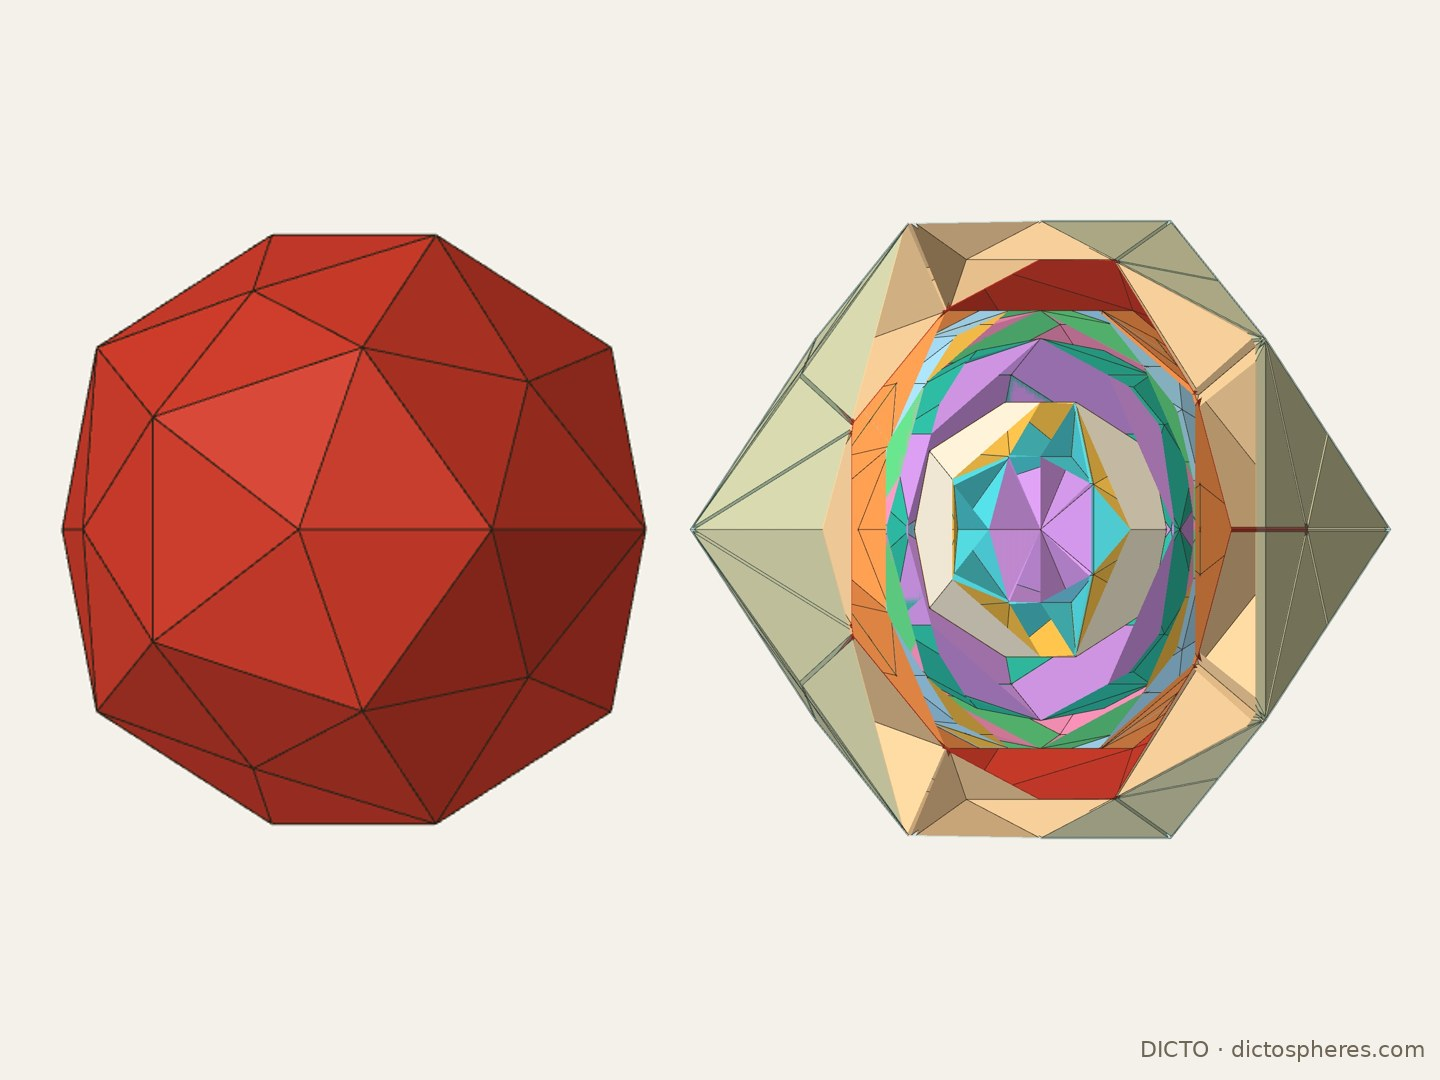
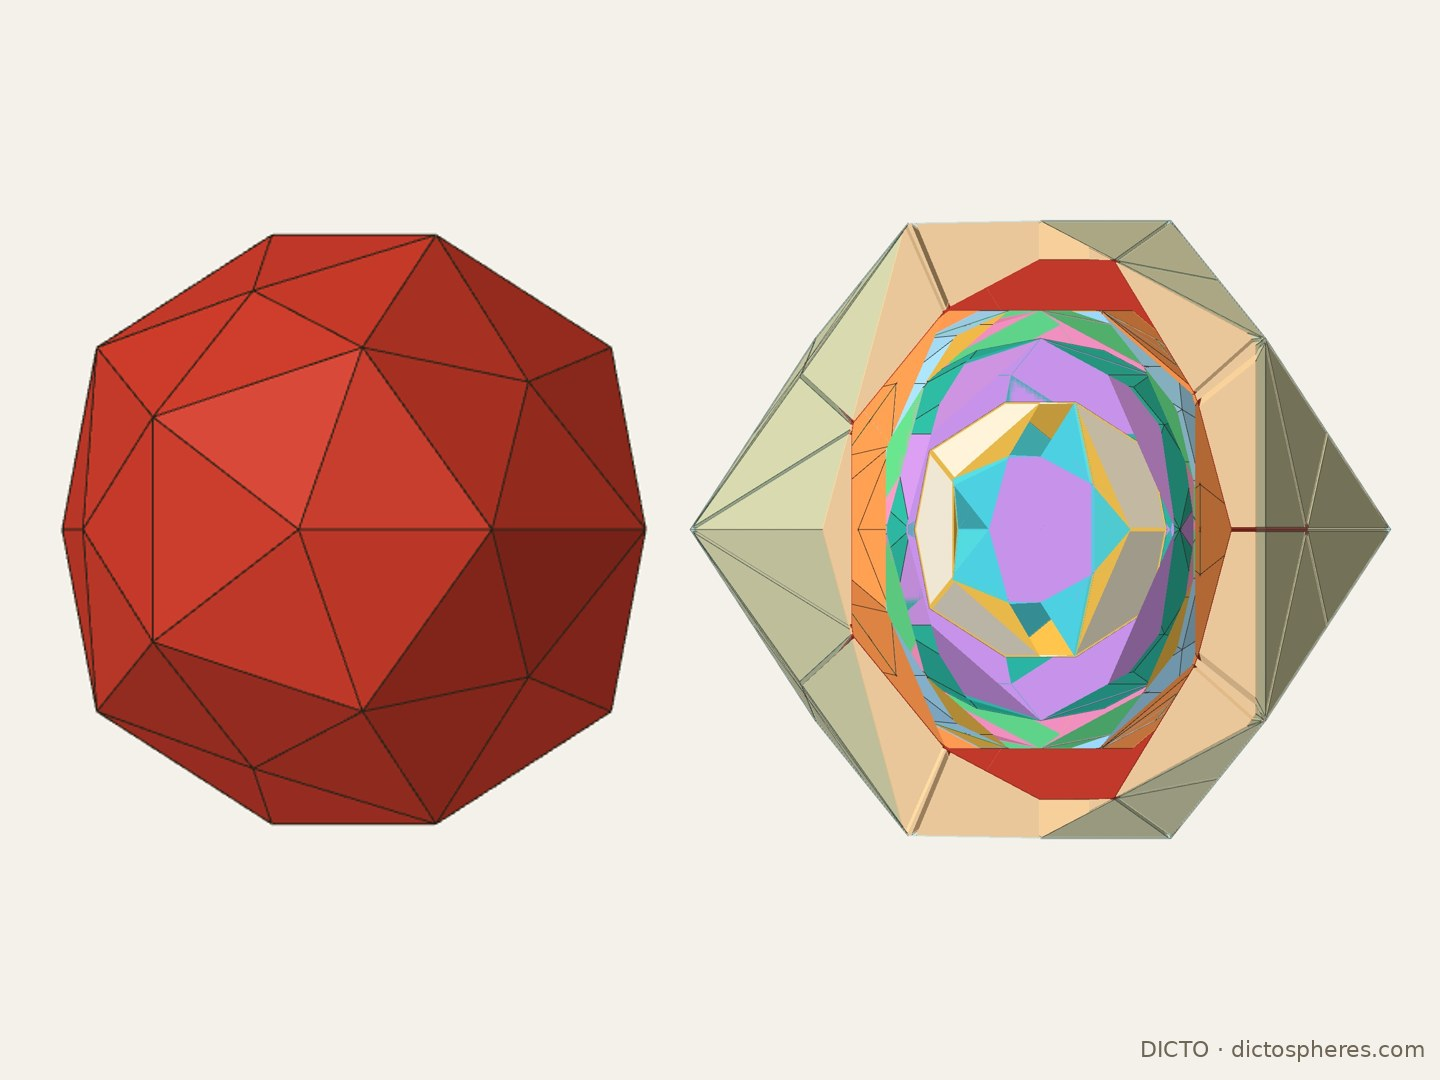
#35 and #35a cards: the Version 2 figures (solid cut faces); news line

Changed region(s): [[0.5938, 0.1833, 0.8125, 0.7944], [0.8125, 0.3056, 0.875, 0.6722]]

diff --git a/index.html b/index.html
@@ -145,8 +145,8 @@
     <h2>Papers</h2>
     <p class="disc-note">Short papers by DICTO, with the checks behind every claim.</p>
     <div class="papers">
-      <div class="paper feature"><img src="papers/vajrayana.jpg?v=2" alt="Vajrayana: the Cleo star build pulled apart, assembled inside the dodecahedron D′, and in the cycle; below, the twelve stations of the golden cycle at true scale" loading="eager" width="1776" height="999"><span class="t"><span class="num">#35</span> Vajrayana</span><span class="s">A companion to Progenitors. The dodecahedron returns inside the golden cycle as the hull of DICTO's Cleo star, filled exactly by 82 pieces of four kinds. The last loose step, from the rhombic triacontahedron to the next icosahedron, is closed by a new solid that touches both, the DICTO Metaxyhexecontahedron, each of its two layers one kind of piece. The cycle grows to twelve stations. Exact in every step.</span><span class="pdoi"><a class="doi-badge" href="https://doi.org/10.5281/zenodo.23429911" title="DICTO DOI, always the newest version"><span>DICTO DOI</span><span>10.5281/zenodo.23429911</span></a></span><span class="btns"><a class="btn" href="https://doi.org/10.5281/zenodo.23429911">Read paper</a><a class="btn" href="https://kaleidohedra.dictospheres.com/?open=vajrayana">View in app</a></span></div>
-      <div class="paper"><img src="papers/metaxyhexecontahedron.jpg?v=3" alt="The DICTO Metaxyhexecontahedron alone, and in the twelve-station golden cycle between the rhombic triacontahedron and the next icosahedron" loading="lazy" width="1440" height="1080"><span class="t"><span class="num">#35a</span> The DICTO Metaxyhexecontahedron</span><span class="s">The solid in the last gap of the golden cycle: the hull of an icosahedron and a dodecahedron whose edges stand exactly at 9/φ⁴. 60 triangles, an insphere, no midsphere; it touches the rhombic triacontahedron and the next icosahedron, each of its two layers one kind of piece. A short introduction, exact in every number.</span><span class="pdoi"><a class="doi-badge" href="https://doi.org/10.5281/zenodo.23430864" title="DICTO DOI, always the newest version"><span>DICTO DOI</span><span>10.5281/zenodo.23430864</span></a></span><span class="btns"><a class="btn" href="https://doi.org/10.5281/zenodo.23430864">Read paper</a><a class="btn" href="https://kaleidohedra.dictospheres.com/?open=vajrayana">View in app</a></span></div>
+      <div class="paper feature"><img src="papers/vajrayana.jpg?v=3" alt="Vajrayana: the Cleo star build pulled apart, assembled inside the dodecahedron D′, and in the cycle; below, the twelve stations of the golden cycle at true scale" loading="eager" width="1776" height="999"><span class="t"><span class="num">#35</span> Vajrayana</span><span class="s">A companion to Progenitors. The dodecahedron returns inside the golden cycle as the hull of DICTO's Cleo star, filled exactly by 82 pieces of four kinds. The last loose step, from the rhombic triacontahedron to the next icosahedron, is closed by a new solid that touches both, the DICTO Metaxyhexecontahedron, each of its two layers one kind of piece. The cycle grows to twelve stations. Exact in every step.</span><span class="pdoi"><a class="doi-badge" href="https://doi.org/10.5281/zenodo.23429911" title="DICTO DOI, always the newest version"><span>DICTO DOI</span><span>10.5281/zenodo.23429911</span></a></span><span class="btns"><a class="btn" href="https://doi.org/10.5281/zenodo.23429911">Read paper</a><a class="btn" href="https://kaleidohedra.dictospheres.com/?open=vajrayana">View in app</a></span></div>
+      <div class="paper"><img src="papers/metaxyhexecontahedron.jpg?v=4" alt="The DICTO Metaxyhexecontahedron alone, and in the twelve-station golden cycle between the rhombic triacontahedron and the next icosahedron" loading="lazy" width="1440" height="1080"><span class="t"><span class="num">#35a</span> The DICTO Metaxyhexecontahedron</span><span class="s">The solid in the last gap of the golden cycle: the hull of an icosahedron and a dodecahedron whose edges stand exactly at 9/φ⁴. 60 triangles, an insphere, no midsphere; it touches the rhombic triacontahedron and the next icosahedron, each of its two layers one kind of piece. A short introduction, exact in every number.</span><span class="pdoi"><a class="doi-badge" href="https://doi.org/10.5281/zenodo.23430864" title="DICTO DOI, always the newest version"><span>DICTO DOI</span><span>10.5281/zenodo.23430864</span></a></span><span class="btns"><a class="btn" href="https://doi.org/10.5281/zenodo.23430864">Read paper</a><a class="btn" href="https://kaleidohedra.dictospheres.com/?open=vajrayana">View in app</a></span></div>
       <div class="paper feature"><img src="papers/progenitors.jpg" alt="Progenitors: the golden nine-station cycle with the Ogdoecontahedron in the dodecahedron's place, cut away and sliced through the centre" loading="eager" width="1776" height="999"><span class="t"><span class="num">#34</span> Progenitors</span><span class="s">The DICTO Hecatodihedron and Ogdoecontahedron as a twin pair. On their own they never close golden: tight nestings with their classical relatives are governed by 3. Set into the Spheres of Dharma in the dodecahedron's place, they close it again on φ⁹, and the cycle holds the core and hull of two dual compounds. Exact in every step.</span><span class="pdoi"><a class="doi-badge" href="https://doi.org/10.5281/zenodo.23413184" title="DICTO DOI, always the newest version"><span>DICTO DOI</span><span>10.5281/zenodo.23413184</span></a></span><span class="btns"><a class="btn" href="https://doi.org/10.5281/zenodo.23413184">Read paper</a></span></div>
       <div class="paper feature"><img src="papers/double-vision.jpg" alt="Double Vision: the interlock of both cycles in its two settings, a slice removed to show the layers and the next turn inside" loading="eager" width="1920" height="1080"><span class="t"><span class="num">#33</span> Double Vision – Both Cycles in One Space</span><span class="s">The Spheres of Dharma and their inside-out reversal placed in one space. One sphere of reciprocation toggles which shells the two cycles share, and no sphere gives both settings. Cut against each other, the two cycles make one solid of convex pieces, exact in every piece: 536 pieces of 12 kinds per turn in one setting, 502 of 11 in the other.</span><span class="pdoi"><a class="doi-badge" href="https://doi.org/10.5281/zenodo.23407106" title="DICTO DOI, always the newest version"><span>DICTO DOI</span><span>10.5281/zenodo.23407106</span></a></span><span class="btns"><a class="btn" href="https://doi.org/10.5281/zenodo.23407106">Read paper</a><a class="btn" href="https://kaleidohedra.dictospheres.com/?open=doubleVision">View in app</a></span></div>
       <div class="paper feature"><img src="papers/inverted-shells.jpg" alt="Inverted Shells: the great stellated dodecahedron, the reversed Spheres of Dharma cut in half, and its endless core" loading="eager" width="1920" height="1080"><span class="t"><span class="num">#32</span> Inverted Shells: The Spheres of Dharma Turned Inside Out</span><span class="s">Polar reciprocation turns the Spheres of Dharma inside out into a new exact golden cycle, every layer filled by one kind of piece. The great stellated dodecahedron locks into its outer gap at exactly one size, a dual pair fits its inner gap in reverse order, and the cycle repeats inward without end.</span><span class="pdoi"><a class="doi-badge" href="https://doi.org/10.5281/zenodo.23405029" title="DICTO DOI, always the newest version"><span>DICTO DOI</span><span>10.5281/zenodo.23405029</span></a></span><span class="btns"><a class="btn" href="https://doi.org/10.5281/zenodo.23405029">Read paper</a></span></div>
@@ -171,6 +171,7 @@
 
     <h2>What's new</h2>
     <ul class="news">
+      <li><span class="d">17 Oct 2026</span> <b>Version 2 of Vajrayana and the Metaxyhexecontahedron</b> (#35, #35a): the cut figures re-rendered with solid cut faces, each cut solid filled in its own colour; text and results unchanged.</li>
       <li><span class="d">17 Oct 2026</span> <b>The DICTO Metaxyhexecontahedron</b> (#35a, DICTO DOI: <a href="https://doi.org/10.5281/zenodo.23430864">10.5281/zenodo.23430864</a>): the first of four short introductions, one per new solid: the hull at 9/φ⁴ that closes the golden cycle's last gap.</li>
       <li><span class="d">17 Oct 2026</span> <b>Vajrayana</b> (#35, DICTO DOI: <a href="https://doi.org/10.5281/zenodo.23429911">10.5281/zenodo.23429911</a>): the companion to Progenitors. The dodecahedron returns as the hull of the Cleo star, and the DICTO Metaxyhexecontahedron closes the cycle's last loose step; twelve stations, exact.</li>
       <li><span class="d">16 Oct 2026</span> <b>Progenitors</b> (#34, DICTO DOI: <a href="https://doi.org/10.5281/zenodo.23413184">10.5281/zenodo.23413184</a>): the Hecatodihedron and Ogdoecontahedron as a twin pair, in a golden cycle that holds both compounds.</li>
